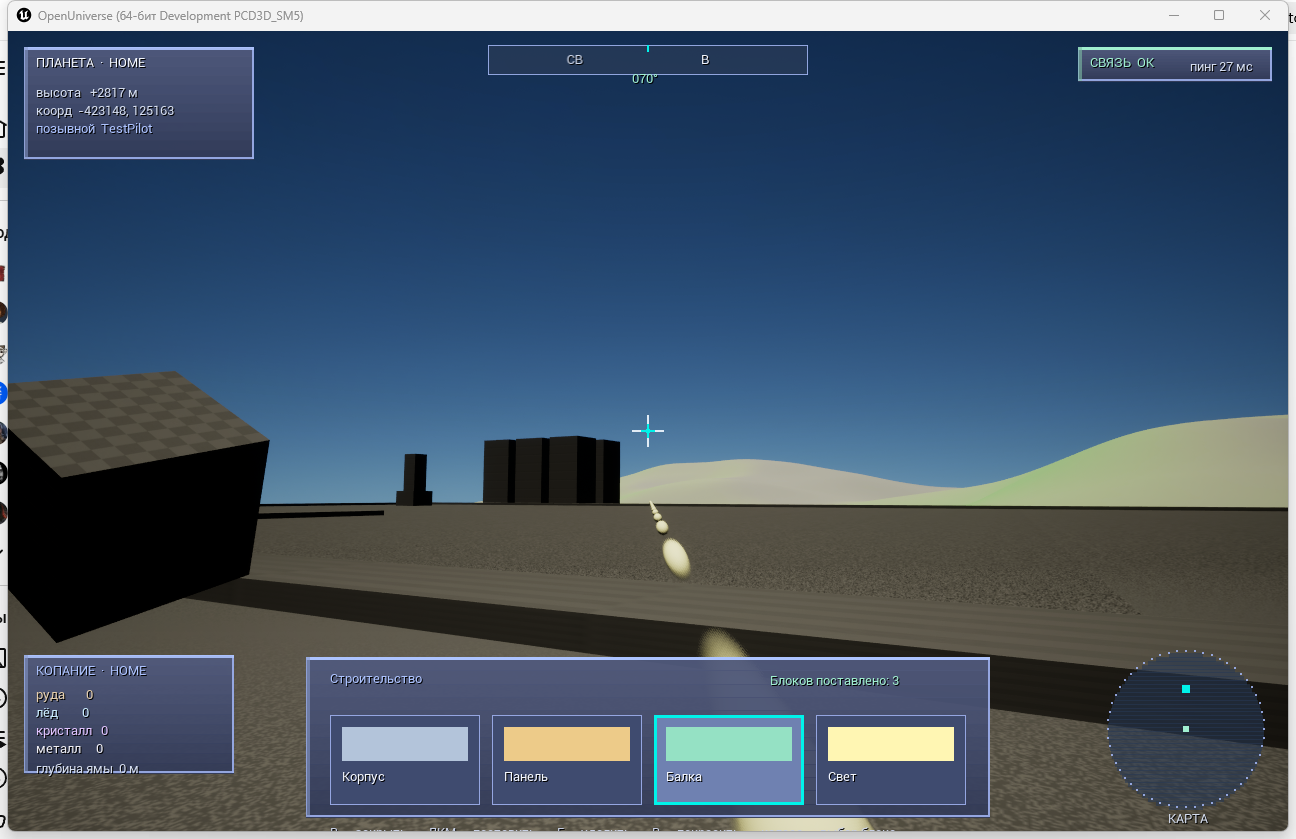
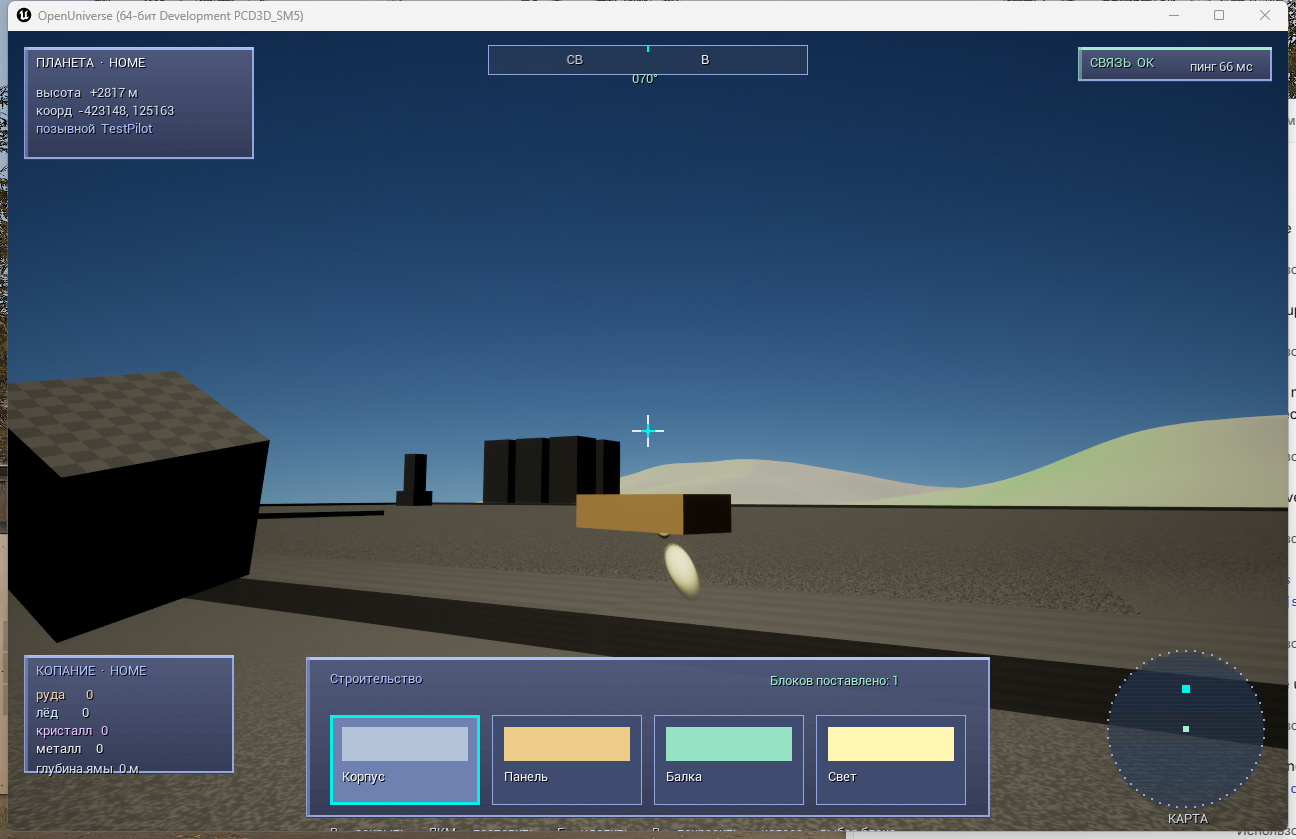
docs(plan): sync plan.md/plan.json/data.js with reality (digging, economy, production, editor, ping, ESC in game; drop non-existent explode)

diff --git a/data.js b/data.js
@@ -7,7 +7,7 @@ window.PLAN = {
   "project": "Open Universe",
   "tagline": "Один общий космос. Построен игроками.",
   "tagline_en": "One shared universe. Built by players.",
-  "updated": "2026-11-13",
+  "updated": "2026-11-14",
   "rule": "«Готово» ставится только тому, что игрок реально видит в игре (клиент UE5 + живой сервер). Написано и протестировано, но к игре не подключено — это «в работе».",
   "rule_en": "\"Done\" is only for what the player actually sees in the game (UE5 client + live server). Written and tested but not wired into the game counts as \"in progress\".",
   "phases": [
@@ -40,10 +40,12 @@ window.PLAN = {
         { "title": "Floating origin / double-precision (AUOOriginManager)", "title_en": "Floating origin / double-precision (AUOOriginManager)", "status": "done" },
         { "title": "Сферическая планета с рельефом (общая формула с сервером)", "title_en": "Spherical planet with terrain (formula shared with the server)", "status": "done" },
         { "title": "Ландшафт: континенты, равнины, горы; биомы", "title_en": "Terrain: continents, plains, mountains; biomes", "status": "done" },
+        { "title": "Землеподобный рельеф: зоны по высоте, камень на склонах, клиентские детали", "title_en": "Earth-like terrain: height zones, rock on slopes, client-side relief detail", "status": "done" },
         { "title": "Атмосфера, скайбокс и постобработка", "title_en": "Atmosphere, skybox and post-processing", "status": "done" },
         { "title": "Вид от первого лица (персонаж и корабль)", "title_en": "First-person view (character and ship)", "status": "done" },
         { "title": "Клиентский каркас: сетевой рендер мира", "title_en": "Client skeleton: networked world rendering", "status": "done" },
         { "title": "Копание грунта в игре (ЛКМ, сервер-авторитетно, с репликацией)", "title_en": "Terrain digging in game (LMB, server-authoritative, replicated)", "status": "done" },
+        { "title": "Стартовый комплекс: площадка, лестницы, постройки, единый цвет пола", "title_en": "Start complex: pad, staircases, buildings, single-colour floor", "status": "done" },
         { "title": "Система небесных тел (генератор есть; в игре одна планета)", "title_en": "Celestial body system (generator exists; the game has one planet)", "status": "in_progress" }
       ]
     },
@@ -63,7 +65,9 @@ window.PLAN = {
         { "title": "Выход из корабля (удержание F) и пешие прогулки по планете", "title_en": "Exit ship (hold F) and walk on the planet", "status": "done" },
         { "title": "Interest management (репликация только нужного)", "title_en": "Interest management (replicate only what is needed)", "status": "done" },
         { "title": "Базовые сетевые протоколы (бинарный + дельты + varint)", "title_en": "Base network protocols (binary + deltas + varint)", "status": "done" },
-        { "title": "UE5-клиент в сети: подключение, ввод, реконсиляция, другие игроки", "title_en": "UE5 client online: connect, input, reconciliation, other players", "status": "done" }
+        { "title": "UE5-клиент в сети: подключение, ввод, реконсиляция, другие игроки", "title_en": "UE5 client online: connect, input, reconciliation, other players", "status": "done" },
+        { "title": "Реальная задержка игрока (ping/pong) в HUD", "title_en": "Real player latency (ping/pong) in the HUD", "status": "done" },
+        { "title": "Меню ESC: продолжить / настройки / отлучиться от сервера", "title_en": "ESC menu: continue / settings / leave server", "status": "done" }
       ]
     },
     {
@@ -94,6 +98,7 @@ window.PLAN = {
         { "title": "Валидация физической целостности", "title_en": "Physical integrity validation", "status": "done" },
         { "title": "Совместное строительство: репликация правок, права, подтверждения", "title_en": "Co-op building: edit replication, permissions, confirmations", "status": "done" },
         { "title": "Редактор в игре: ставить / удалять / красить (прицел, Е/R)", "title_en": "In-game editor: place / remove / paint (crosshair, E/R)", "status": "done" },
+        { "title": "Призрак блока под прицелом и постановка «куда смотришь» (как в DU)", "title_en": "Ghost block under the crosshair, place where you look (like DU)", "status": "done" },
         { "title": "Дублирование и шаблоны (blueprints) — в игру не подключено", "title_en": "Duplication and blueprints — not wired into the game", "status": "in_progress" }
       ]
     },
@@ -103,12 +108,13 @@ window.PLAN = {
       "title_en": "Economy and production",
       "goal": "Экономика, которую двигают сами игроки.",
       "goal_en": "An economy driven by the players themselves.",
-      "note": "Реализовано как библиотека + офлайн-демо; к игровому серверу пока не подключено.",
-      "note_en": "Implemented as a library + offline demo; not yet wired into the game server.",
+      "note": "Петля замкнута в игре: копание даёт руду, рынок (M) и производство работают на живом сервере.",
+      "note_en": "The loop is closed in-game: digging yields ore, and the market (M) and production run on the live server.",
       "tasks": [
-        { "title": "Добыча ресурсов (копание грунта даёт руду)", "title_en": "Resource extraction (digging yields ore)", "status": "done" },
-        { "title": "Переработка и производственные цепочки", "title_en": "Refining and production chains", "status": "in_progress" },
+        { "title": "Добыча ресурсов (копание даёт руду слоями по глубине)", "title_en": "Resource extraction (digging yields ore in depth layers)", "status": "done" },
+        { "title": "Переработка и производственные цепочки (в игре, окно M)", "title_en": "Refining and production chains (in game, window M)", "status": "done" },
         { "title": "Игрок-рынок: ордера, стакан, сделки (в игре, клавиша M)", "title_en": "Player market: orders, order book, trades (in game, key M)", "status": "done" },
+        { "title": "Отображение добычи и производства в HUD", "title_en": "Digging and production shown in the HUD", "status": "done" },
         { "title": "Модули контейнеров, топлива, энергии", "title_en": "Container, fuel and energy modules", "status": "in_progress" },
         { "title": "Экономическая симуляция и баланс", "title_en": "Economic simulation and balance", "status": "in_progress" }
       ]
@@ -136,6 +142,7 @@ window.PLAN = {
       "tasks": [
         { "title": "Щиты, броня, урон по секциям; смерть и возрождение (в игре)", "title_en": "Shields, armor, sectional damage; death and respawn (in game)", "status": "done" },
         { "title": "Дроны-цели: спавн, отстрел, возрождение (в игре)", "title_en": "Target drones: spawn, shoot, respawn (in game)", "status": "done" },
+        { "title": "Взрывные воронки от боя (explode) — в коде пока только dig", "title_en": "Blast craters from combat (explode) — the code only has dig so far", "status": "todo" },
         { "title": "Захват и удержание территорий (есть в combat, к игре не подключено)", "title_en": "Territory capture and holding (exists in combat, not wired into the game)", "status": "in_progress" },
         { "title": "Право собственности и налоги (есть в библиотеке)", "title_en": "Ownership and taxes (exists in the library)", "status": "in_progress" },
         { "title": "Орбитальные и планетарные сражения", "title_en": "Orbital and planetary battles", "status": "in_progress" },

diff --git a/plan.md b/plan.md
@@ -9,7 +9,7 @@
 
 - **Статус проекта:** Pre-Alpha (концепт + инфраструктура)
 - **Общий прогресс:** считается автоматически на сайте (`index.html`)
-- **Обновлено:** 2026-11-13
+- **Обновлено:** 2026-11-14
 
 ---
 
@@ -26,12 +26,16 @@
 | Полёт корабля, посадка, гравитация планет | ✅ готово |
 | Пеший персонаж, вид от первого лица | ✅ готово |
 | Общий ландшафт планеты (сервер = клиент, бит-в-бит) | ✅ готово |
-| Копание грунта (ЛКМ, сервер-авторитетно) | ✅ готово |
+| Землеподобный рельеф (зоны, камень на склонах, детали) | ✅ готово |
+| Стартовый комплекс: площадка, лестницы, постройки | ✅ готово |
+| Копание грунта (ЛКМ, сервер-авторитетно, воксельные ямы) | ✅ готово |
+| Руда слоями по глубине (руда/лёд/кристалл/металл) | ✅ готово |
 | Бой: щит/броня, смерть, дроны-цели | ✅ готово |
-| Строительство: постановка блоков (сервер-авторитетно) | ✅ готово |
-| Одна большая планета радиусом 500 км | ✅ готово |
-| Копание грунта: ямки от удара | ✅ готово |
+| Строительство: ставить/удалять/красить с призраком блока | ✅ готово |
 | Экономика в игре: копание → руда, рынок, кредиты (M) | ✅ готово |
+| Производство в игре: руда → металл → … → корабль (M) | ✅ готово |
+| Реальная задержка игрока (пинг) в HUD | ✅ готово |
+| Меню ESC: продолжить / настройки / отлучиться | ✅ готово |
 
 ---
 
@@ -74,10 +78,12 @@
 - [x] Floating origin / double-precision (`AUOOriginManager`)
 - [x] Сферическая планета с рельефом (общая формула с сервером, `OUTerrain.h`)
 - [x] Ландшафт: континенты, равнины, горы; биомы (океан/пляж/равнины/холмы/горы)
+- [x] Землеподобный рельеф: зоны по высоте (песок/луг/трава/лес/скалы/снег), камень на склонах, клиентские детали
 - [x] Атмосфера, скайбокс и постобработка (небо привязано к центру планеты)
 - [x] Вид от первого лица (персонаж и корабль)
 - [x] Клиентский каркас: сетевой рендер живого мира с сервера
-- [~] Разрушение вокселей: копание и взрывы — **серверный `dig`/`explode` есть, в клиент не подключены**
+- [x] Копание грунта в игре (воксельные ямы, руда; сервер-авторитетно)
+- [x] Стартовый комплекс: площадка, лестницы, постройки, единый цвет пола
 - [~] Система небесных тел (звёзды, планеты, чёрные дыры) — **генератор есть; в игре пока одна планета**
 
 ### Фаза 2 — Физика и сеть
@@ -91,6 +97,8 @@
 - [x] Interest management (репликация только нужного)
 - [x] Базовые сетевые протоколы (бинарный + дельты + varint, позиции 1 мм)
 - [x] **UE5-клиент в сети**: подключение к `ou-netd`, ввод, реконсиляция, другие игроки
+- [x] Реальная задержка игрока (ping/pong) в HUD
+- [x] Меню ESC в игре: продолжить / настройки / отлучиться от сервера
 
 ### Фаза 3 — Single-shard бэкенд (Rust)
 - [x] Серверный каркас на Rust (tick loop 30 Гц, interest management)
@@ -106,15 +114,17 @@
 - [x] Сетка деталей и «ядро» конструкций (ядро нельзя снести; связность проверяется)
 - [x] Валидация физической целостности (`validate`, `prune_disconnected`)
 - [x] Совместное строительство: репликация правок, права владельца, подтверждения
-- [~] Воксельный редактор: ставить/удалять/красить — **в игре пока только постановка**
+- [x] Воксельный редактор в игре: ставить / удалять / красить (прицел, E/R)
+- [x] Призрак блока под прицелом и постановка «куда смотришь» (как в Dual Universe)
 - [~] Дублирование и шаблоны (blueprints) — **есть в библиотеке, в игру не подключено**
 
 ### Фаза 5 — Экономика и производство
-> Реализовано как **библиотека + офлайн-демо**; к игровому серверу (`ou-server`)
-> пока не подключено, поэтому засчитывается как «в работе».
-- [~] Добыча ресурсов (ресурсы систем и поясов заданы в генерации)
-- [~] Переработка и производственные цепочки (`Production`, 7 рецептов)
-- [~] Игрок-рынок: ордера, стакан, логистика (`Market`, `MatchingEngine`)
+> Петля **замкнута в игре**: копание даёт руду, рынок и производство работают на
+> живом сервере (окно M).
+- [x] Добыча ресурсов (копание даёт руду слоями по глубине: руда/лёд/кристалл/металл)
+- [x] Переработка и производственные цепочки (крафт в игре: руда → металл → … → корабль)
+- [x] Игрок-рынок: ордера, стакан, сделки (`Market`, `MatchingEngine`; в игре, клавиша M)
+- [x] Отображение добычи и производства в HUD
 - [~] Модули контейнеров, топлива, энергии (`Inventory`, категории)
 - [~] Экономическая симуляция и баланс (VWAP, спред, приоритет цены/времени)
 
@@ -128,6 +138,7 @@
 ### Фаза 7 — Бой и территории
 - [x] Щиты, броня, урон по секциям; смерть и возрождение (в игре)
 - [x] Дроны-цели: спавн, отстрел, возрождение (в игре)
+- [ ] Взрывные воронки от боя (`explode`) — **в коде пока только `dig`**
 - [~] Захват и удержание территорий — **есть в `crates/combat`, к игре не подключено**
 - [~] Право собственности и налоги — **есть в библиотеке, к игре не подключено**
 - [~] Орбитальные и планетарные сражения — базовый учёт урона
@@ -158,11 +169,15 @@
 
 ## 4. Ближайшие шаги
 
-1. **Копание в игре** — подключить серверный `dig`/`explode` к клиенту: игрок
-   меняет грунт, правки авторитетны и видны всем. Главный столп проекта.
-2. **Удаление и покраска блоков** в редакторе — довести «ставить/удалять/красить».
-3. **Игровая петля**: копание + инвентарь + строительство вместе.
-4. **Экономика в игре** — подключить рынок и производство к живому серверу.
+1. **Взрывные воронки от боя** (`explode`) — ямы от ракет/борьбы рядом с обычным
+   копанием.
+2. **Несколько планет и полёт между ними** — генератор систем есть, в игре одна
+   планета; добавить сверхсветовой переход между системами.
+3. **Территория и налоги в игре** — подключить `crates/combat` (захват, налоги) к
+   живому серверу и UI.
+4. **Скриптинг в игре** — привязать `ou-script` к объектам (автопилоты, турели,
+   дисплеи); сейчас движок тикает, но скрипты к игре не подключены.
+5. **Дубликаты/шаблоны (blueprints)** — подключить библиотеку к редактору в игре.
 
 ## 5. Как читать статусы
 
